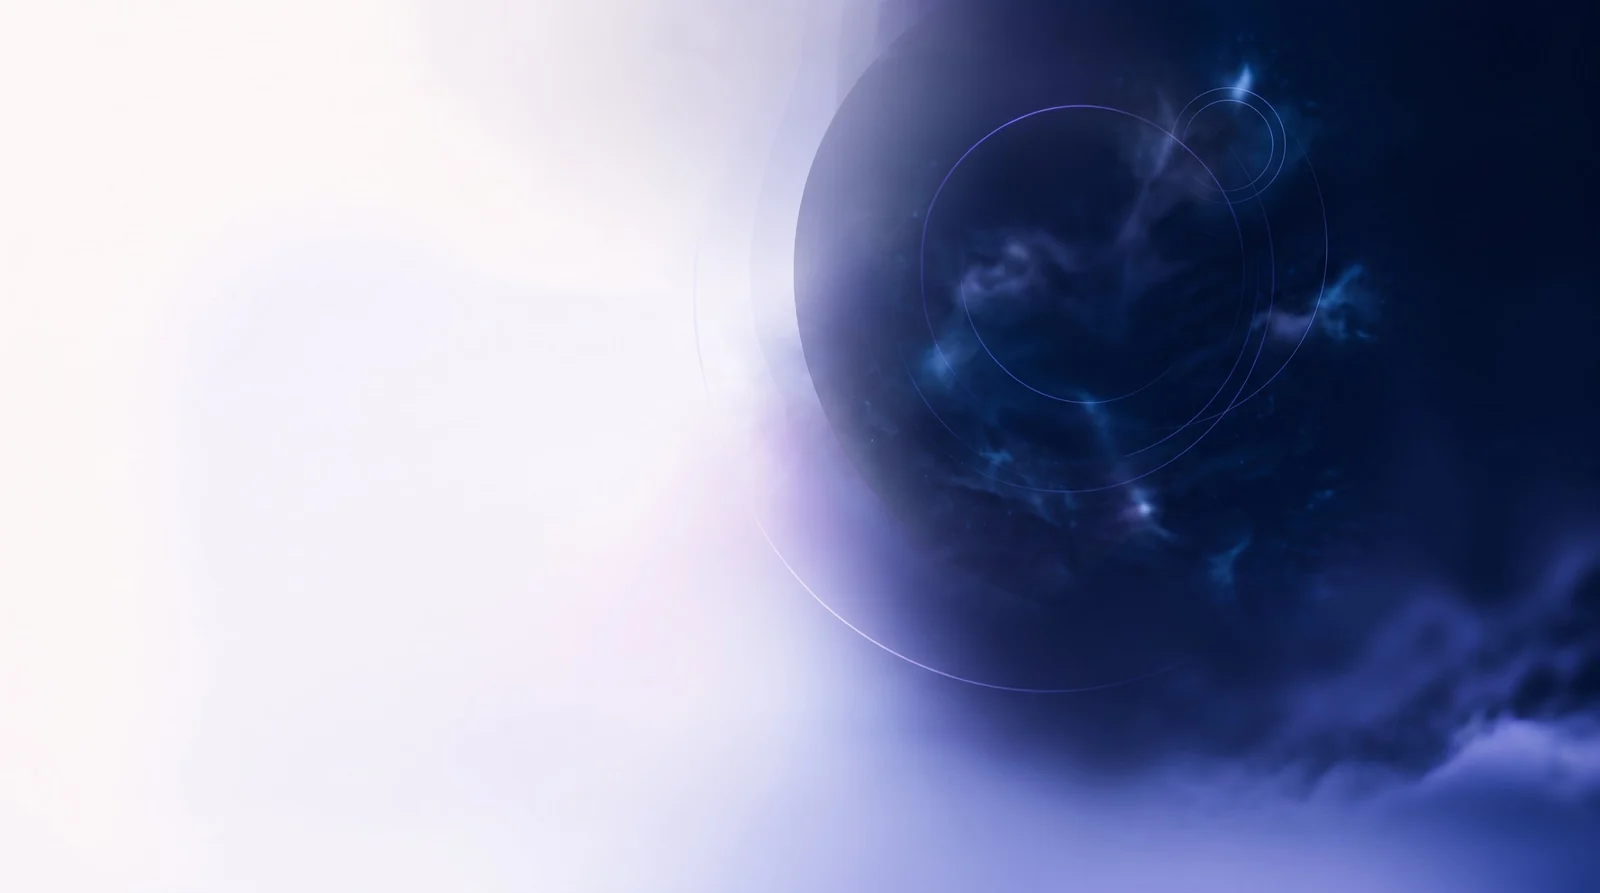
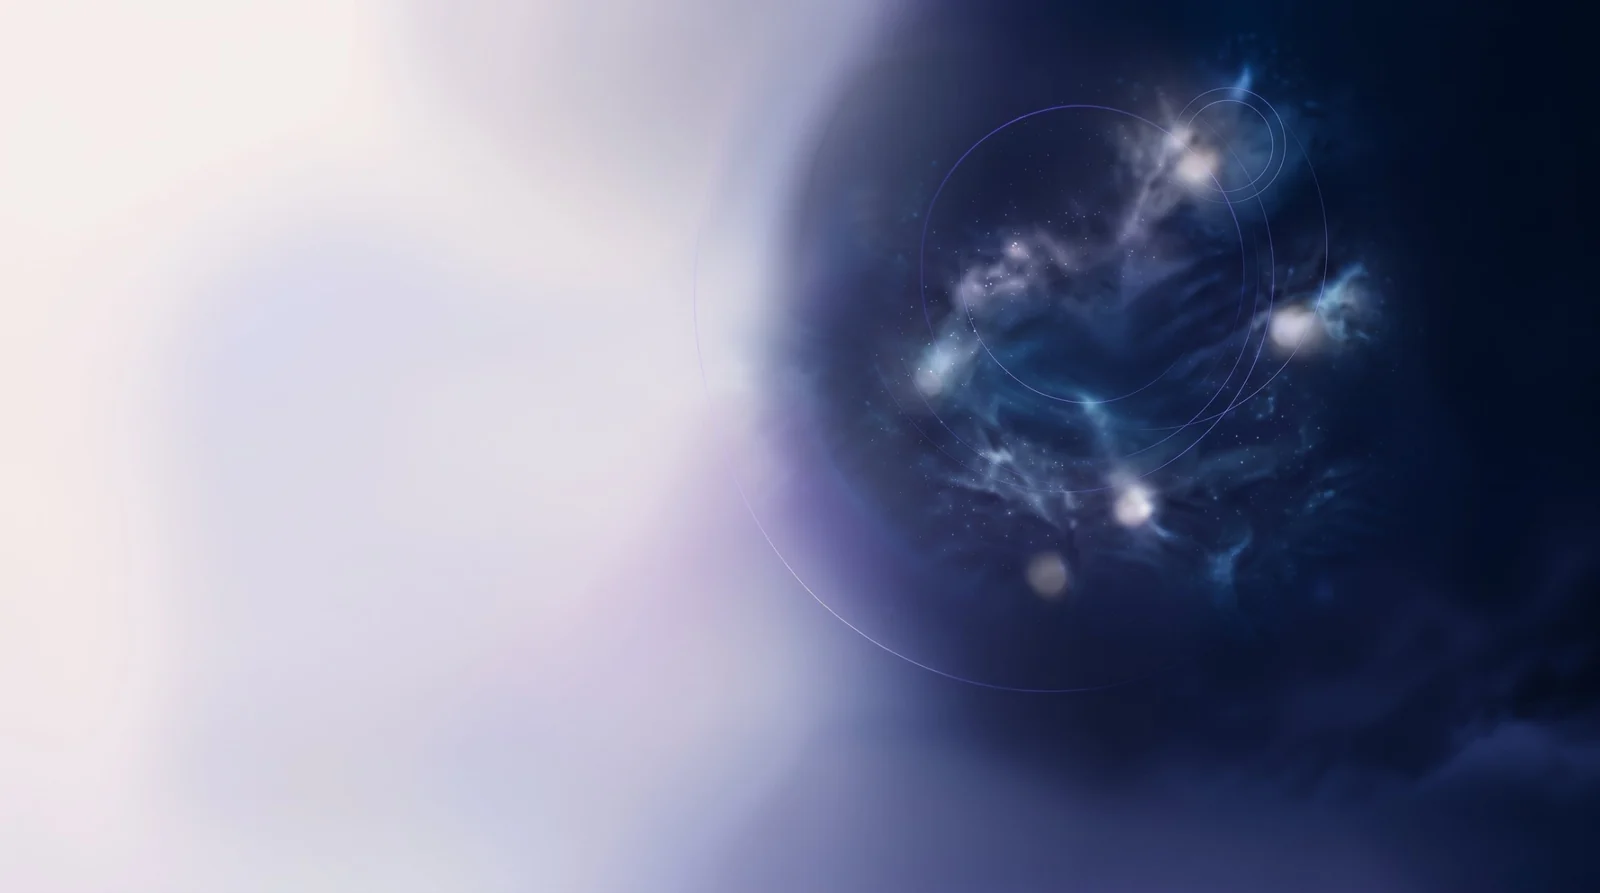
Add files via upload

diff --git a/adisa-soren-portfolio/index.html b/adisa-soren-portfolio/index.html
@@ -110,6 +110,19 @@
     .oct-panel { grid-template-columns: minmax(0, 1fr); }
     .oct-art { padding: var(--s-5) var(--s-3) 0; }
   }
+  /* exploring: the photo emerging from the background. No frame: its edges dissolve through a soft oval mask, so the
+     sky and street fade into the sea instead of stopping at a border. */
+  .oct-art img.oct-photo { display: block; margin: 0; filter: none; box-shadow: none; border-radius: 0;
+    width: min(100%, 60svh, 560px); height: auto; max-height: none; aspect-ratio: 3 / 4; object-fit: cover; object-position: 45% 40%;
+    -webkit-mask-image: radial-gradient(closest-side ellipse at 50% 48%, #000 52%, rgba(0, 0, 0, .55) 74%, transparent 100%);
+            mask-image: radial-gradient(closest-side ellipse at 50% 48%, #000 52%, rgba(0, 0, 0, .55) 74%, transparent 100%); }
+  @media (max-width: 1179px) { .oct-art img.oct-photo { width: min(100%, 440px); } }
+  /* the background has bright glowing orbs: a soft dark halo keeps the white text readable wherever one sits behind it */
+  .oct-panel li, .oct-panel__h { text-shadow: 0 0 10px rgba(6, 8, 40, .85), 0 0 3px rgba(6, 8, 40, .7); }
+  @media (min-width: 1180px) {
+    .nav--home.is-top .nav__item:nth-child(n+3) .nav__link { text-shadow: 0 0 10px rgba(6, 8, 40, .7), 0 0 2px rgba(6, 8, 40, .6); }
+    .nav--home.is-top .nav__item:nth-child(-n+2) .nav__link { text-shadow: 0 0 10px rgba(255, 255, 255, .8); }
+  }
   .work-card { display: grid; gap: var(--s-4); align-content: start; color: inherit; }
   .work-card:hover h3 { text-decoration: underline; text-decoration-thickness: 1px; text-underline-offset: 4px; }
   .work-card .t-label { color: var(--muted); }
@@ -201,7 +214,7 @@
           </div>
         </div>
         <figure class="oct-art" aria-hidden="true">
-          <img src="assets/img/octopus.webp" srcset="assets/img/octopus-900.webp 900w, assets/img/octopus.webp 1367w" sizes="(min-width: 1180px) 46vw, 92vw" width="1367" height="1022" alt="" fetchpriority="high">
+          <img class="oct-photo" src="assets/img/paris.webp" srcset="assets/img/paris-640.webp 640w, assets/img/paris.webp 1000w" sizes="(min-width: 1180px) 30vw, 80vw" width="1000" height="1334" alt="" fetchpriority="high">
         </figure>
         <aside class="oct-panel" aria-label="Capabilities">
           <div class="oct-panel__group"><h2 class="oct-panel__h">Core Competencies</h2><ul><li>AI product strategy</li><li>LLM evaluation</li><li>Stakeholder alignment</li></ul></div>
